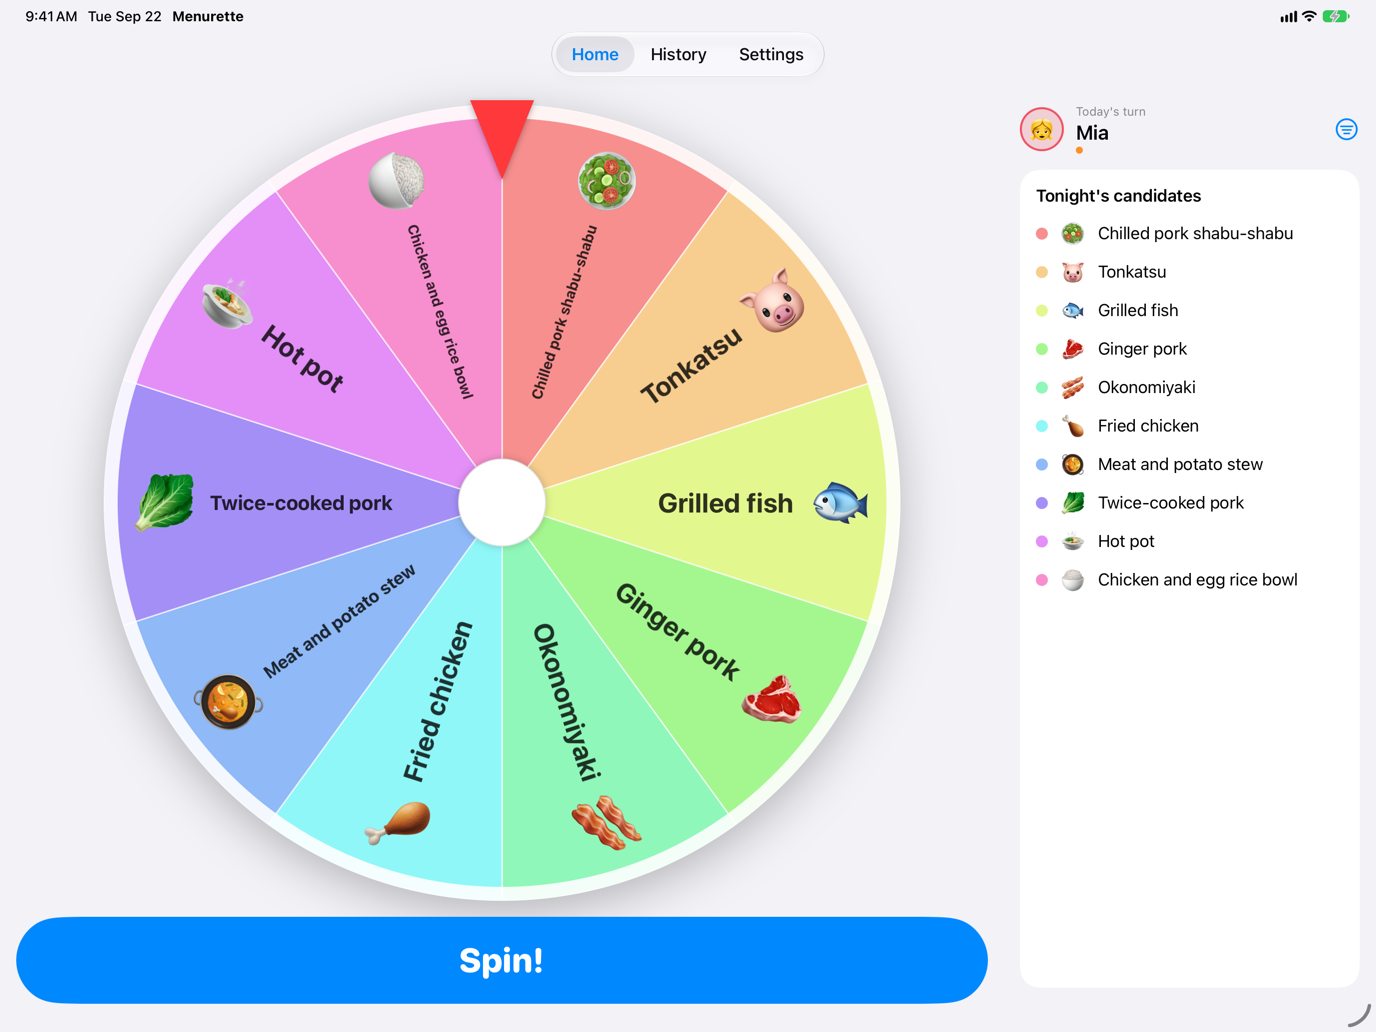
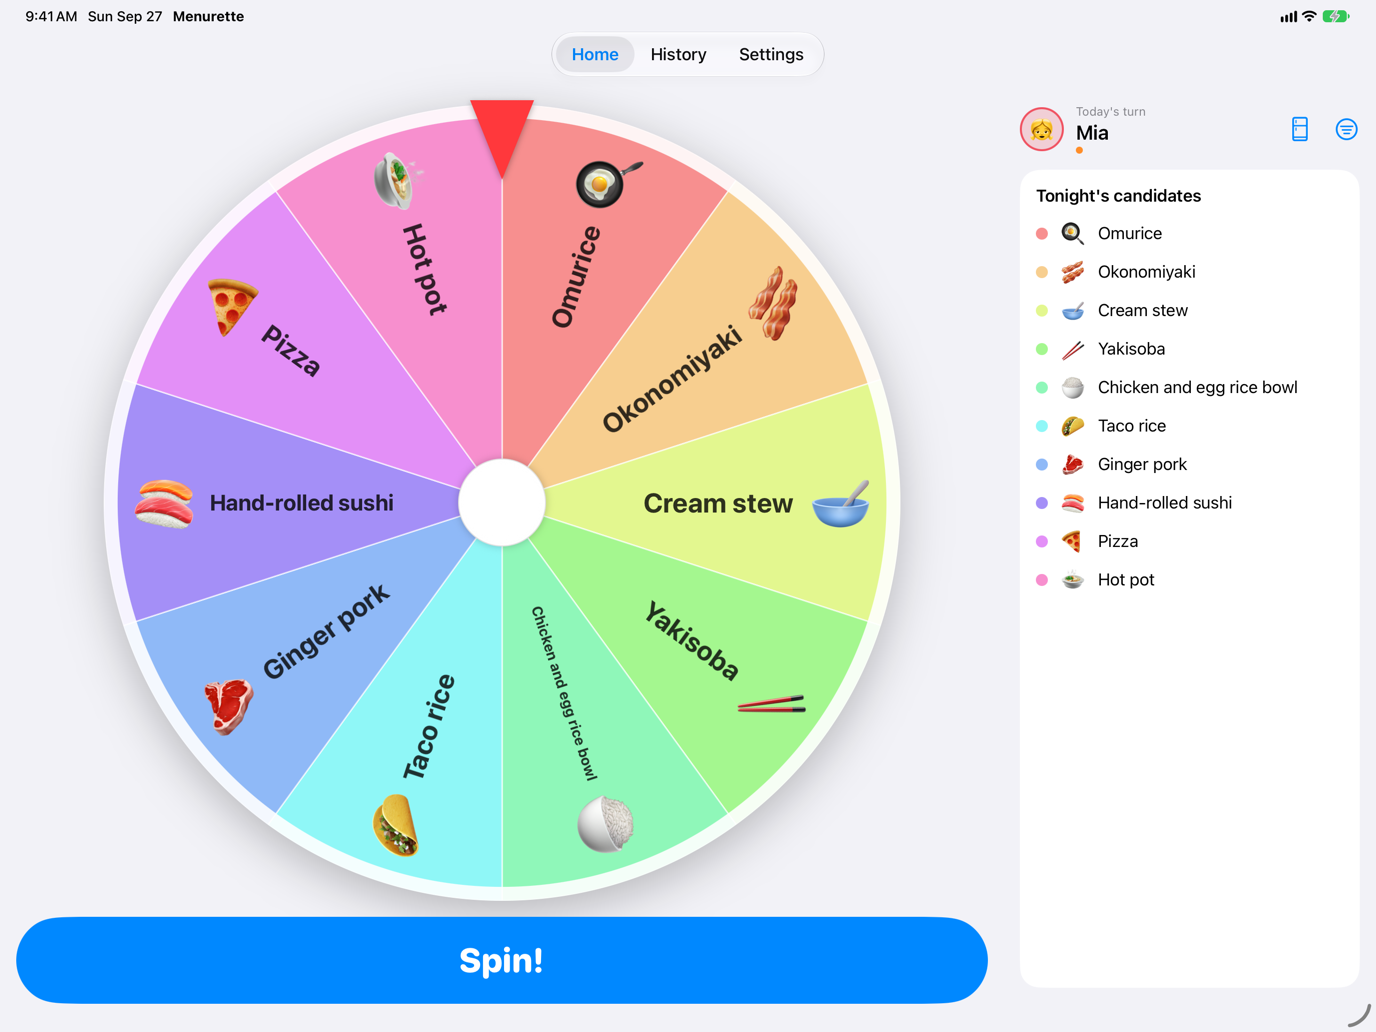
build

diff --git a/apps/menurette/privacy.html b/apps/menurette/privacy.html
@@ -114,12 +114,13 @@
     <h3>2. 端末内に保存するデータ</h3>
     <p>本アプリは、使うために必要な次のデータを、お使いの端末の中にだけ保存します。</p>
     <ul>
-      <li>メニュー（料理の名前・絵文字・ジャンル・主な食材・調理時間、有効／無効）</li>
+      <li>メニュー（料理の名前・絵文字・ジャンル・主な食材・使う食材・調理時間、有効／無効）</li>
       <li>家族のメンバー（名前・アバターの絵文字・テーマカラー・回す順番・「すき」な料理・その週に使った「やだ!」カードの数）</li>
       <li>決めた献立の履歴（日付・料理・回した人）</li>
       <li>設定（ルーレットのセグメント数、「やだ!」カードの回数、かぶり防止の日数、効果音・ハプティクスのオン／オフ）と、その日に「やだ!」で外した料理</li>
     </ul>
     <p>これらは端末内のデータベースと設定領域に保存され、<strong>iCloud を含め、端末の外へ同期・送信されることはありません</strong>。開発者がこれらのデータを見ることはできません。家族の名前はニックネームでもお使いいただけます。</p>
+    <p>冷蔵庫の画面で選んだ食材は保存されません。アプリを閉じるか献立を決めると消えます。</p>
     <p>なお、iOS の端末バックアップ（iCloud バックアップや Mac へのバックアップ）をお使いの場合、本アプリのデータもそのバックアップに含まれることがあります。これは Apple のバックアップ機能によるもので、開発者がアクセスすることはできません。</p>
 
     <h3>3. 端末の機能へのアクセス</h3>
@@ -137,7 +138,7 @@
     <p>App Store の「App のプライバシー」欄では<strong>「データの収集なし」</strong>と申告しており、アプリに同梱するプライバシーマニフェストの内容と一致します。</p>
 
     <h3>5. 子どものプライバシー</h3>
-    <p>本アプリは、小さなお子さまのいるご家族が一緒に使うことを想定した、年齢レーティング 4+ のアプリです。個人情報を収集しないため、お子さまから情報を収集することもありません。本アプリには広告も外部へのリンクもなく、メニューや家族の編集・設定の変更は、かんたんな計算問題に答えないと開けないようにしています。</p>
+    <p>本アプリは、小さなお子さまのいるご家族が一緒に使うことを想定した、年齢レーティング 4+ のアプリです。個人情報を収集しないため、お子さまから情報を収集することもありません。本アプリには広告も外部へのリンクもなく、</p>
 
     <h3>6. データの削除</h3>
     <p>メニュー・家族のメンバー・履歴は、それぞれアプリ内の一覧から削除できます。本アプリを端末から削除すると、端末内に保存されたすべてのデータが削除されます。開発者側に保存されているデータはありません。</p>
@@ -149,7 +150,7 @@
     <p>本ポリシーや本アプリのプライバシーに関するご質問は、以下までご連絡ください。</p>
     <ul>
       <li>開発者: Masamichi Ueta</li>
-      <li>お問い合わせフォーム: <a href="CONTACT_FORM_URL">こちら</a></li>
+      <li>お問い合わせフォーム: <a href="https://forms.gle/24M1LF1hoBcCB94p7">こちら</a></li>
     </ul>
 
     <hr>
@@ -164,12 +165,13 @@
     <h3>2. Data Stored on Your Device</h3>
     <p>The App keeps the following, which it needs to work, on your device only:</p>
     <ul>
-      <li>Dishes (name, emoji, cuisine, main ingredient, cooking time, and whether each is on the menu)</li>
+      <li>Dishes (name, emoji, cuisine, main ingredient, ingredients used, cooking time, and whether each is on the menu)</li>
       <li>Family members (name, avatar emoji, colour, turn order, favourite dishes, and how many "No thanks!" cards they used this week)</li>
       <li>The history of dinners you decided (date, dish, and who spun)</li>
       <li>Settings (slices on the wheel, "No thanks!" cards per week, repeat-free days, sound and haptics on or off) and the dishes turned down today</li>
     </ul>
     <p>These are kept in a database and in the settings storage on your device, and <strong>are never synced or sent off the device, iCloud included</strong>. The developer cannot see any of it. Nicknames work fine for family members.</p>
+    <p>The ingredients you pick on the fridge screen are not saved. They are cleared when the App closes or once dinner is decided.</p>
     <p>If you use iOS device backups (iCloud Backup or a backup to your Mac), the App's data may be included in them. That is Apple's backup feature, and the developer has no access to it.</p>
 
     <h3>3. Access to Device Features</h3>
@@ -187,7 +189,7 @@
     <p>The App's App Store privacy entry declares <strong>"Data Not Collected"</strong>, matching the privacy manifest bundled with the App.</p>
 
     <h3>5. Children's Privacy</h3>
-    <p>The App is rated 4+ and is made for families with young children to use together. Since it collects no personal information at all, it collects none from children either. The App has no advertising and no links out of it, and editing dishes or family members and changing settings require the answer to a simple sum.</p>
+    <p>The App is rated 4+ and is made for families with young children to use together. Since it collects no personal information at all, it collects none from children either. The App has no advertising and no links out of it.</p>
 
     <h3>6. Data Deletion</h3>
     <p>Dishes, family members and history entries can each be deleted from their lists in the App. Uninstalling the App removes everything it stored on your device. No data is held by the developer.</p>
@@ -199,14 +201,14 @@
     <p>For any questions about this policy or about privacy in the App, please contact:</p>
     <ul>
       <li>Developer: Masamichi Ueta</li>
-      <li>Contact form: <a href="CONTACT_FORM_URL">here</a></li>
+      <li>Contact form: <a href="https://forms.gle/24M1LF1hoBcCB94p7">here</a></li>
     </ul>
 
   <footer>
     <nav>
       <a href="/apps/menurette/">トップ / Home</a>
       <a href="/apps/menurette/support.html">サポート / Support</a>
-      <a href="CONTACT_FORM_URL">お問い合わせ / Contact</a>
+      <a href="https://forms.gle/24M1LF1hoBcCB94p7">お問い合わせ / Contact</a>
     </nav>
     <p class="copy">© 2026 Masamichi Ueta</p>
   </footer>

diff --git a/apps/menurette/support.html b/apps/menurette/support.html
@@ -125,7 +125,7 @@
 
     <h3>お問い合わせ</h3>
     <ul>
-      <li>お問い合わせは<a href="CONTACT_FORM_URL">お問い合わせフォーム</a>からお願いします。</li>
+      <li>お問い合わせは<a href="https://forms.gle/24M1LF1hoBcCB94p7">お問い合わせフォーム</a>からお願いします。</li>
       <li>個人開発のため、お返事までに数日いただくことがあります。あらかじめご了承ください。</li>
       <li>不具合のご連絡時は、端末モデル（例：iPhone 17 Pro）・iOS のバージョン・アプリのバージョンを添えていただけると助かります。</li>
     </ul>
@@ -151,7 +151,7 @@
     <p>ルーレットに載る料理は、最近食べたものほど出にくく、前日と同じジャンル・同じ食材も出にくく、家族の「すき」が多いほど出やすくなるように、裏側で選んでいます。ルーレットの上では同じ大きさに並ぶので、止まった場所がそのまま結果になります。</p>
 
     <h4>メニュー・家族・設定（おとな向け）</h4>
-    <p>「設定」タブは、かんたんな足し算に答えると開きます。お子さまがうっかりメニューを消してしまわないためのものです。</p>
+    <p>「設定」タブから、メニューや家族の編集、各種設定の変更ができます。</p>
     <ul>
       <li><strong>メニュー</strong> — 追加・編集・削除。左から右へスワイプすると「おやすみ」にでき、おやすみ中の料理はルーレットに載りません。料理ごとに、家族のだれの「すき」かを選べます。</li>
       <li><strong>家族</strong> — 追加・編集・削除・並べ替え。並び順が、回す順番です。</li>
@@ -170,6 +170,12 @@
 
       <dt>Q. 最近食べた料理がなかなか出ません</dt>
       <dd>A. かぶりを防ぐため、決めてから日が浅い料理ほど出にくくしています。「設定」→「かぶり防止の日数」を短くすると、早く出やすくなります。</dd>
+
+      <dt>Q. 冷蔵庫の食材を選んだのに、使わない料理も出ます</dt>
+      <dd>A. 冷蔵庫の食材は「絞り込み」ではなく「出やすくする」しくみです。選んだ食材を多く使う料理ほど候補に選ばれやすくなりますが、足りない食材がある料理も出ることがあります（買い足せば作れる料理として、結果の画面に「たりない」食材が出ます）。選んだ食材は保存されず、献立を決めるとリセットされます。</dd>
+
+      <dt>Q. 料理に使う食材を変えたい</dt>
+      <dd>A.「設定」→「メニュー」で料理をタップし、「使う食材」で選び直してください。冷蔵庫の食材とのくらべ方は、ここで選んだ食材をもとにしています。</dd>
 
       <dt>Q.「ルーレットが からっぽ」と出て回せません</dt>
       <dd>A. ルーレットには2品以上が必要です。条件をしぼっている場合は「じょうけんをクリア」を、その日の「やだ!」で全部外れた場合は「もう一度出す」をタップしてください。それ以外の場合は、「設定」→「メニュー」で、おやすみ中の料理を戻すか、料理を追加してください。</dd>
@@ -229,7 +235,7 @@
 
     <h3>Contact</h3>
     <ul>
-      <li>Please reach out via the <a href="CONTACT_FORM_URL">contact form</a>.</li>
+      <li>Please reach out via the <a href="https://forms.gle/24M1LF1hoBcCB94p7">contact form</a>.</li>
       <li>This is an indie project, so replies may take a few days. Thank you for your patience.</li>
       <li>When reporting an issue, please include your device model (e.g. iPhone 17 Pro), your iOS version, and the app version.</li>
     </ul>
@@ -254,8 +260,8 @@
     <h4>How the wheel is filled</h4>
     <p>Behind the scenes, dishes you had recently come up less often, so do dishes from the same cuisine or with the same main ingredient as yesterday, and family favourites come up more often. On the wheel itself every slice is the same size, so where it stops is what you get.</p>
 
-    <h4>Dishes, family and settings (for grown-ups)</h4>
-    <p>The Settings tab opens after a simple addition question. It's there so young children can't delete dishes by accident.</p>
+    <h4>Dishes, family and settings </h4>
+    <p>Dishes, family members and other settings are all under the Settings tab.</p>
     <ul>
       <li><strong>Dishes</strong> — add, edit and delete. Swipe right on a dish to pause it; paused dishes never land on the wheel. Each dish can be marked as a favourite of anyone in the family.</li>
       <li><strong>Family</strong> — add, edit, delete and reorder. The order is the turn order.</li>
@@ -274,6 +280,12 @@
 
       <dt>Q. A dish we had recently hardly ever comes up</dt>
       <dd>A. That's on purpose: the more recently a dish was decided, the less likely it is. Shorten Settings → Repeat-free days to let dishes come back sooner.</dd>
+
+      <dt>Q. I picked ingredients in the fridge, but dishes that don't use them still come up</dt>
+      <dd>A. The fridge nudges the draw rather than filtering it: dishes that use more of what you picked are likelier to be chosen for the wheel, but dishes missing an ingredient can still appear (the result screen lists what you still need). Your picks aren't saved and reset once dinner is decided.</dd>
+
+      <dt>Q. How do I change the ingredients a dish uses?</dt>
+      <dd>A. Go to Settings → Dishes, tap the dish, and change "Ingredients used". The fridge match is based on what you choose there.</dd>
 
       <dt>Q. It says "The wheel is empty" and won't spin</dt>
       <dd>A. The wheel needs at least two dishes. If a filter is on, tap "Clear filter"; if today's "No thanks!" cards took everything off, tap "Bring them back". Otherwise, resume a paused dish or add one under Settings → Dishes.</dd>
@@ -318,7 +330,7 @@
     <nav>
       <a href="/apps/menurette/">トップ / Home</a>
       <a href="/apps/menurette/privacy.html">プライバシー / Privacy</a>
-      <a href="CONTACT_FORM_URL">お問い合わせ / Contact</a>
+      <a href="https://forms.gle/24M1LF1hoBcCB94p7">お問い合わせ / Contact</a>
     </nav>
     <p class="copy">© 2026 Masamichi Ueta</p>
   </footer>

diff --git a/apps/menurette/index.html b/apps/menurette/index.html
@@ -4,7 +4,7 @@
   <meta charset="utf-8">
   <meta name="viewport" content="width=device-width, initial-scale=1">
   <title>Menurette — 献立ルーレット</title>
-  <meta name="description" content="家族みんなでルーレットを回して、今日の晩ごはんを決めるアプリ。回すのは今日の当番の子。最近食べたものは出にくく、家族の好物は出やすく。広告・課金・アカウント登録なし。">
+  <meta name="description" content="家族みんなでルーレットを回して、今日の晩ごはんを決めるアプリ。回すのは今日の当番の子。冷蔵庫の食材からも回せて、最近食べたものは出にくく、家族の好物は出やすく。広告・課金・アカウント登録なし。">
   <meta name="robots" content="index, follow">
   <link rel="icon" type="image/png" href="/apps/menurette/assets/icon.png">
   <link rel="alternate" hreflang="ja" href="https://masamichiueta.github.io/apps/menurette/">
@@ -63,7 +63,7 @@
                    "Helvetica Neue", "Hiragino Sans", "Yu Gothic", sans-serif;
       line-height: 1.6; -webkit-font-smoothing: antialiased; font-size: 17px;
     }
-    img { max-width: 100%; display: block; }
+    img { max-width: 100%; height: auto; display: block; }
     a { color: var(--link); text-decoration: none; }
     a:hover { text-decoration: underline; }
 
@@ -304,6 +304,23 @@
 
     <div class="feature">
       <div>
+        <div class="glyph" style="background:linear-gradient(140deg,#64D2FF,#32ADE6)">
+          <svg width="30" height="30" viewBox="0 0 30 30" fill="none" aria-hidden="true"><rect x="8" y="3.5" width="14" height="23" rx="3" stroke="#fff" stroke-width="2.4"/><path d="M8 13h14M12 8v2.5M12 16.5v3" stroke="#fff" stroke-width="2.4" stroke-linecap="round"/></svg>
+        </div>
+        <h3>冷蔵庫の食材から回す</h3>
+        <p>冷蔵庫にあるものをタップで選ぶと、それを使う料理がルーレットに出やすくなります。絞り込みではないので、足りない食材があっても候補に残ります。</p>
+        <ul>
+          <li>結果の画面に「ある」「たりない」食材を表示。買い物の目安にも</li>
+          <li>選んだ食材は保存されず、献立を決めるとリセット</li>
+        </ul>
+      </div>
+      <div class="shot-col">
+        <img class="shot" src="/apps/menurette/assets/shot-fridge.png" alt="冷蔵庫の画面。豚肉・卵・玉ねぎ・にんじん・じゃがいもが選ばれている" width="540" height="1173" loading="lazy">
+      </div>
+    </div>
+
+    <div class="feature">
+      <div>
         <div class="glyph" style="background:linear-gradient(140deg,#FFD60A,#FF9F0A)">
           <svg width="30" height="30" viewBox="0 0 30 30" fill="none" aria-hidden="true"><path d="M15 4l3 7 7.5.6-5.7 4.9 1.8 7.4L15 20l-6.6 3.9 1.8-7.4-5.7-4.9L12 11z" stroke="#fff" stroke-width="2.3" stroke-linejoin="round"/></svg>
         </div>
@@ -383,13 +400,6 @@
         </div>
         <h3>家族の「すき」</h3>
         <p>料理ごとに、だれの好物かを選べます。「すき」が多い料理ほど、ルーレットに載りやすくなります。</p>
-      </div>
-      <div class="box">
-        <div class="glyph" style="background:linear-gradient(140deg,#9E9EA6,#636366)">
-          <svg width="22" height="22" viewBox="0 0 30 30" fill="none" aria-hidden="true"><rect x="6" y="13" width="18" height="13" rx="3" stroke="#fff" stroke-width="2.4"/><path d="M10 13V9.5a5 5 0 0110 0V13" stroke="#fff" stroke-width="2.4"/></svg>
-        </div>
-        <h3>大人向けの設定は計算問題でガード</h3>
-        <p>メニューや家族の編集、設定の変更は、かんたんな足し算に答えないと開けません。子どもがうっかり消してしまう心配がありません。</p>
       </div>
       <div class="box">
         <div class="glyph" style="background:linear-gradient(140deg,#FFC873,#FF7A2F)">
@@ -502,7 +512,7 @@
     <nav>
       <a href="/apps/menurette/support.html">サポート</a>
       <a href="/apps/menurette/privacy.html">プライバシーポリシー</a>
-      <a href="CONTACT_FORM_URL">お問い合わせ</a>
+      <a href="https://forms.gle/24M1LF1hoBcCB94p7">お問い合わせ</a>
       <a href="/apps/menurette/en/">English</a>
     </nav>
     <p class="copy">© 2026 Masamichi Ueta</p>

diff --git a/apps/menurette/en/index.html b/apps/menurette/en/index.html
@@ -4,7 +4,7 @@
   <meta charset="utf-8">
   <meta name="viewport" content="width=device-width, initial-scale=1">
   <title>Menurette — Dinner Roulette</title>
-  <meta name="description" content="A dinner roulette for the whole family. The kids take turns to spin, recent meals come up less often, and family favourites more often. No ads, no in-app purchases, no account.">
+  <meta name="description" content="A dinner roulette for the whole family. The kids take turns to spin, it can start from what is in your fridge, recent meals come up less often, and family favourites more often. No ads, no in-app purchases, no account.">
   <meta name="robots" content="index, follow">
   <link rel="icon" type="image/png" href="/apps/menurette/assets/icon.png">
   <link rel="alternate" hreflang="ja" href="https://masamichiueta.github.io/apps/menurette/">
@@ -63,7 +63,7 @@
                    "Helvetica Neue", "Hiragino Sans", "Yu Gothic", sans-serif;
       line-height: 1.6; -webkit-font-smoothing: antialiased; font-size: 17px;
     }
-    img { max-width: 100%; display: block; }
+    img { max-width: 100%; height: auto; display: block; }
     a { color: var(--link); text-decoration: none; }
     a:hover { text-decoration: underline; }
 
@@ -304,6 +304,23 @@
 
     <div class="feature">
       <div>
+        <div class="glyph" style="background:linear-gradient(140deg,#64D2FF,#32ADE6)">
+          <svg width="30" height="30" viewBox="0 0 30 30" fill="none" aria-hidden="true"><rect x="8" y="3.5" width="14" height="23" rx="3" stroke="#fff" stroke-width="2.4"/><path d="M8 13h14M12 8v2.5M12 16.5v3" stroke="#fff" stroke-width="2.4" stroke-linecap="round"/></svg>
+        </div>
+        <h3>Cook from your fridge</h3>
+        <p>Tap what's in the fridge and the dishes that use it come up more often. It nudges the draw rather than filtering it, so a dish with a missing ingredient stays in.</p>
+        <ul>
+          <li>The result screen shows what you have and what you need</li>
+          <li>Your picks are not saved and reset once dinner is decided</li>
+        </ul>
+      </div>
+      <div class="shot-col">
+        <img class="shot" src="/apps/menurette/assets/shot-fridge-en.png" alt="The Fridge screen with pork, egg, onion, carrot and potato selected" width="540" height="1173" loading="lazy">
+      </div>
+    </div>
+
+    <div class="feature">
+      <div>
         <div class="glyph" style="background:linear-gradient(140deg,#FFD60A,#FF9F0A)">
           <svg width="30" height="30" viewBox="0 0 30 30" fill="none" aria-hidden="true"><path d="M15 4l3 7 7.5.6-5.7 4.9 1.8 7.4L15 20l-6.6 3.9 1.8-7.4-5.7-4.9L12 11z" stroke="#fff" stroke-width="2.3" stroke-linejoin="round"/></svg>
         </div>
@@ -383,13 +400,6 @@
         </div>
         <h3>Family favourites</h3>
         <p>Mark whose favourite each dish is. The more fans a dish has, the more likely it lands on the wheel.</p>
-      </div>
-      <div class="box">
-        <div class="glyph" style="background:linear-gradient(140deg,#9E9EA6,#636366)">
-          <svg width="22" height="22" viewBox="0 0 30 30" fill="none" aria-hidden="true"><rect x="6" y="13" width="18" height="13" rx="3" stroke="#fff" stroke-width="2.4"/><path d="M10 13V9.5a5 5 0 0110 0V13" stroke="#fff" stroke-width="2.4"/></svg>
-        </div>
-        <h3>Grown-up settings behind a sum</h3>
-        <p>Editing dishes and family members, and changing settings, takes the answer to a simple addition — so little fingers can't delete anything by accident.</p>
       </div>
       <div class="box">
         <div class="glyph" style="background:linear-gradient(140deg,#FFC873,#FF7A2F)">
@@ -502,7 +512,7 @@
     <nav>
       <a href="/apps/menurette/support.html#english">Support</a>
       <a href="/apps/menurette/privacy.html#english">Privacy Policy</a>
-      <a href="CONTACT_FORM_URL">Contact</a>
+      <a href="https://forms.gle/24M1LF1hoBcCB94p7">Contact</a>
       <a href="/apps/menurette/">日本語</a>
     </nav>
     <p class="copy">© 2026 Masamichi Ueta</p>
